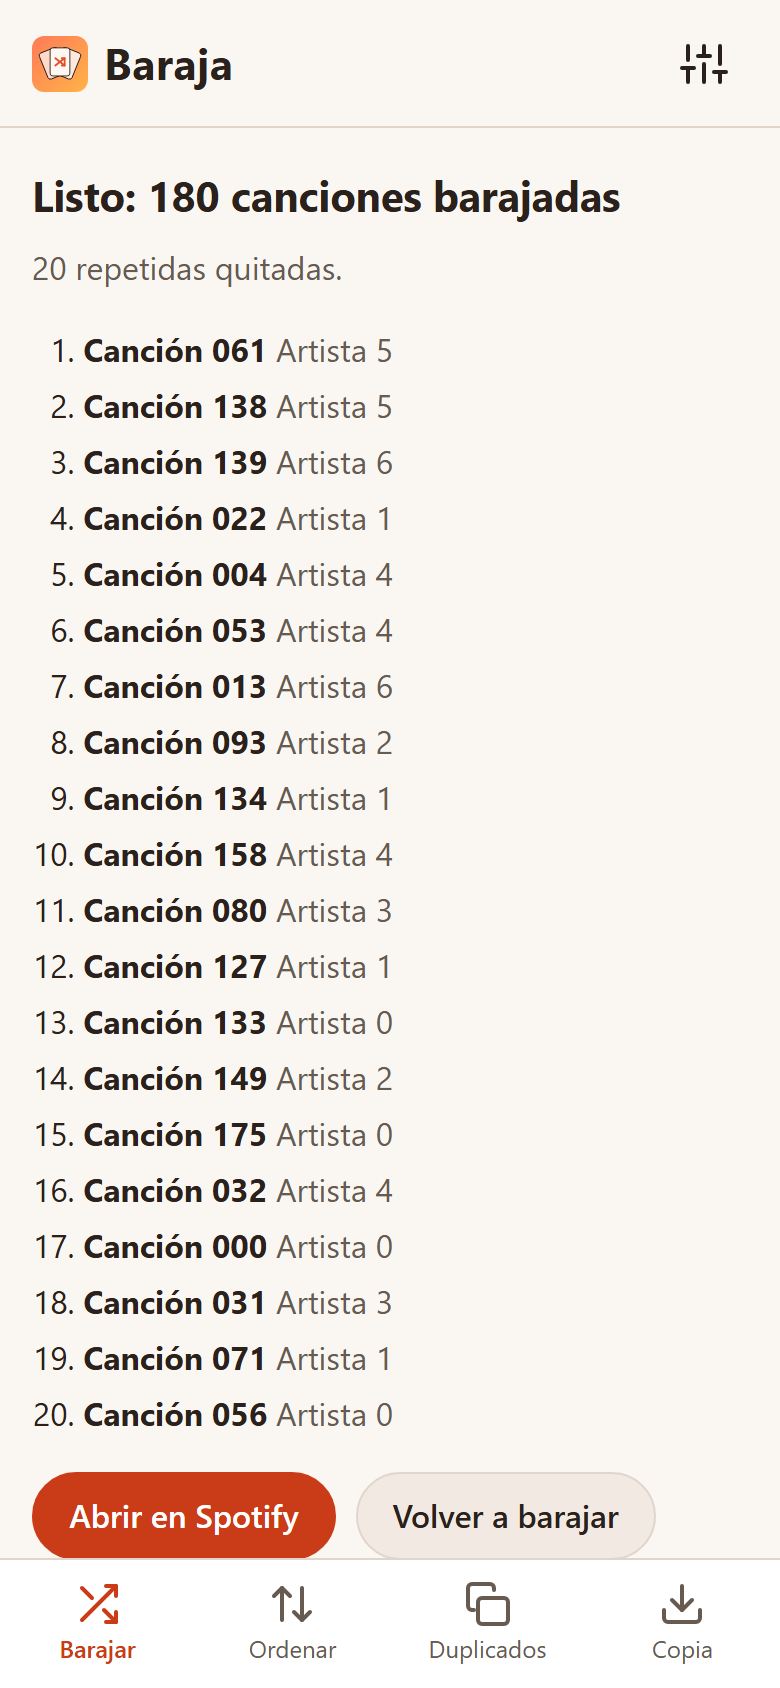
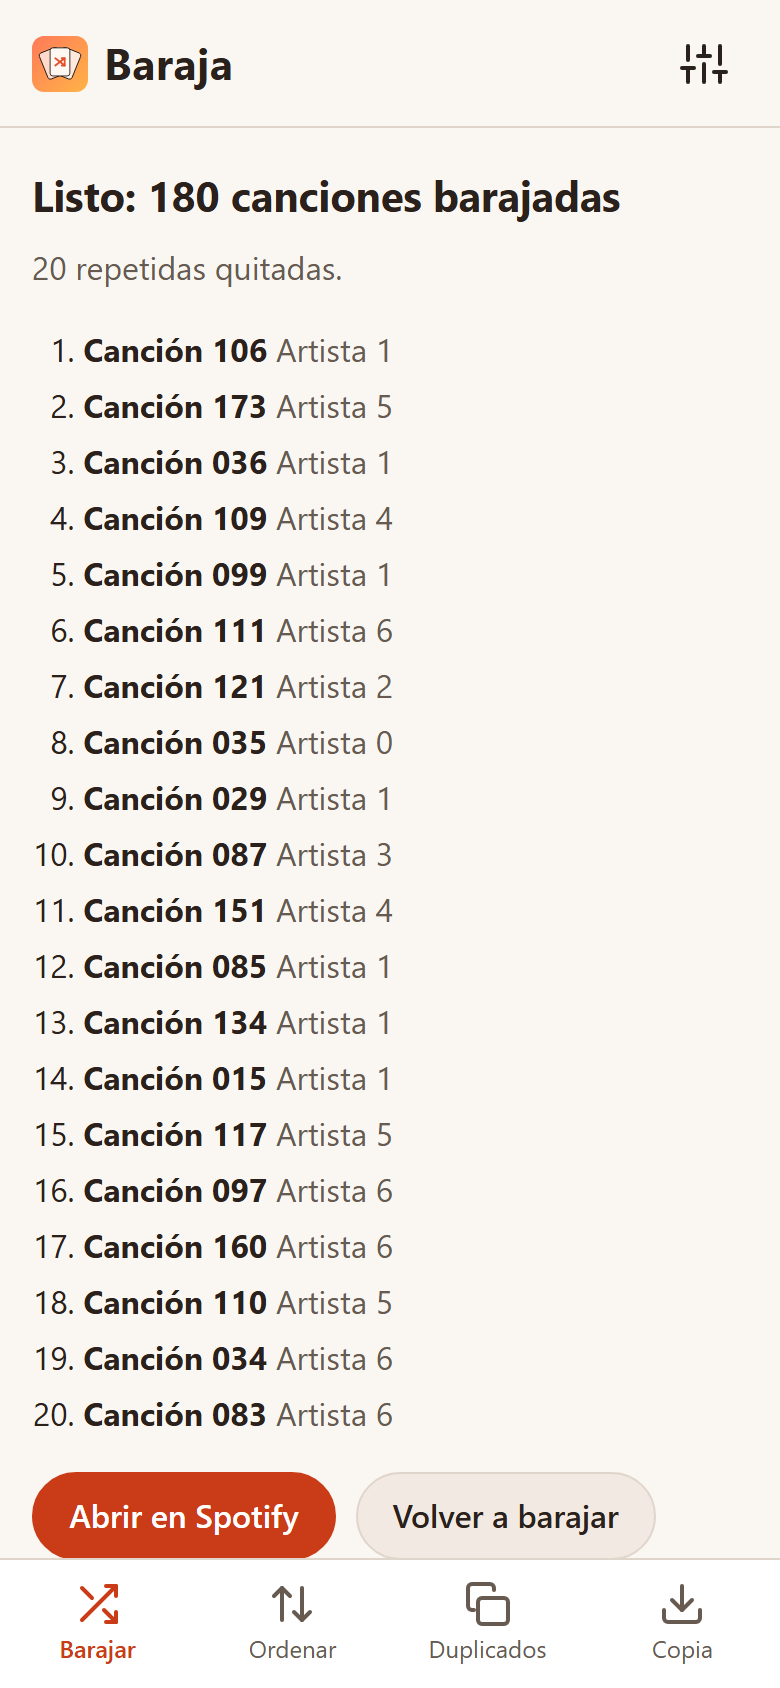
fix: no mostrar «null» en la pantalla de copia de seguridad
replaceChildren convierte null en el texto "null"; el aviso de omitidos de la
copia pasaba null cuando no había nada que avisar. Ahora todas las pantallas
de resultado usan setKids, que descarta null y false. Test e2e que recorre
barajar, ordenar, duplicados, copia y restaurar y falla si aparece null,
undefined o false. Subida la caché del service worker y bandeja al día.

Changed region(s): [[0.2769, 0.1848, 0.3385, 0.8626], [0.4923, 0.5853, 0.5231, 0.6161], [0.4923, 0.1848, 0.5231, 0.2156]]

diff --git a/js/app.js b/js/app.js
@@ -33,6 +33,9 @@ function h(tag, props = {}, ...kids) {
   return el;
 }
 
+/** replaceChildren convierte null y false en el texto "null"/"false"; aquí se descartan. */
+const setKids = (el, ...kids) => el.replaceChildren(...kids.flat().filter((k) => k != null && k !== false));
+
 function icon(...paths) {
   const svg = document.createElementNS(SVGNS, 'svg');
   svg.setAttribute('viewBox', '0 0 24 24');
@@ -279,7 +282,7 @@ function renderResult(container, status, o) {
   }) }, t('undo'));
   const sync = () => { const u = getItem(KEYS.undo); undoBtn.hidden = !(u && u.playlistId === o.playlistId); };
   sync();
-  container.replaceChildren(
+  setKids(container,
     h('h2', { class: 'result-title' }, o.title),
     ...o.notes.map((n) => h('p', { class: 'note' }, n)),
     h('ol', { class: 'preview', 'aria-label': t('preview') }, o.tracks.slice(0, 20).map((tr) => h('li', {}, h('strong', {}, tr.name), ' ', h('span', { class: 'muted' }, artistsOf(tr))))),
@@ -523,7 +526,7 @@ function dupsPanel() {
       status.clear();
       form.hidden = true;
       if (!groups.length) {
-        result.replaceChildren(h('h2', { class: 'result-title' }, t('noDups')), ...skipNotes(skipped).map((n) => h('p', { class: 'note' }, n)),
+        setKids(result,h('h2', { class: 'result-title' }, t('noDups')), ...skipNotes(skipped).map((n) => h('p', { class: 'note' }, n)),
           h('div', { class: 'actions' }, h('button', { class: 'btn', type: 'button', onclick: back }, t('back'))));
         result.hidden = false;
         return;
@@ -582,7 +585,7 @@ function dupsPanel() {
       });
     }
 
-    result.replaceChildren(
+    setKids(result,
       h('h2', { class: 'result-title' }, t('dupsFound', { n: fmt(groups.length) })),
       h('ul', { class: 'dup-list' }, items), count,
       h('div', { class: 'actions' }, removeBtn, copyBtn, h('button', { class: 'btn', type: 'button', onclick: back }, t('back'))));
@@ -643,7 +646,7 @@ function backupPanel() {
       const csvBlob = new Blob(['', toCsv(lists)], { type: 'text/csv' });
       const total = lists.reduce((n, p) => n + p.tracks.length, 0);
       status.clear();
-      out.replaceChildren(
+      setKids(out,
         h('h2', { class: 'result-title' }, t('backupReady', { n: fmt(total), p: fmt(lists.length) })),
         skippedTotal ? h('p', { class: 'note' }, t('skipped', { n: fmt(skippedTotal) })) : null,
         h('div', { class: 'actions' },
@@ -676,7 +679,7 @@ function backupPanel() {
     const go = h('button', { class: 'btn primary', type: 'button', onclick: () => restore() }, t('restoreBtn'));
     const upd = () => { go.disabled = !boxes.some((b) => b.box.checked); };
     boxes.forEach((b) => b.box.addEventListener('change', upd));
-    restoreBox.replaceChildren(
+    setKids(restoreBox,
       h('ul', { class: 'restore-list' }, boxes.map(({ p, box }) => h('li', {}, h('label', { class: 'check' }, box, h('span', {}, `${p.name} · ${t('songs', { n: fmt(p.tracks.length) })}`))))),
       go);
     restoreBox.hidden = false;
@@ -773,7 +776,7 @@ function mountApp() {
     tabBtns[key] = b;
     return b;
   }));
-  root.replaceChildren(
+  setKids(root,
     h('header', { class: 'top' }, h('h1', {}, h('img', { src: 'icons/icon.svg', alt: '', width: '28', height: '28' }), 'Baraja'), gear),
     h('main', {}, Object.values(panels)),
     nav);
@@ -797,7 +800,7 @@ function renderSetup(problem) {
   const langSel = h('select', { 'aria-label': t('language'), onchange: () => { setLang(langSel.value); renderSetup(problem); } },
     LANGS.map(([code, label]) => { const o = h('option', { value: code }, label); if (code === getLang()) o.selected = true; return o; }));
   const steps = ['step1', 'step2', 'step3', 'step4', 'step5'];
-  root.replaceChildren(h('main', { class: 'setup' },
+  setKids(root,h('main', { class: 'setup' },
     h('div', { class: 'brand' }, h('img', { src: 'icons/icon.svg', alt: '', width: '72', height: '72' }), h('h1', {}, 'Baraja')),
     h('p', { class: 'lead' }, t('welcome')),
     h('h2', {}, t('guideTitle')),
@@ -829,7 +832,7 @@ async function boot() {
   } catch (e) {
     console.error(e);
     if (e instanceof auth.AuthError) return renderSetup(e);
-    root.replaceChildren(h('main', { class: 'setup' }, h('p', { class: 'error', role: 'alert' }, errorMessage(e)),
+    setKids(root,h('main', { class: 'setup' }, h('p', { class: 'error', role: 'alert' }, errorMessage(e)),
       h('button', { class: 'btn primary', type: 'button', onclick: () => location.reload() }, t('retry'))));
   }
 }

diff --git a/sw.js b/sw.js
@@ -1,5 +1,5 @@
 // Cache-first solo para los archivos de la app. Nunca toca otros orígenes (api/accounts de Spotify).
-const CACHE = 'baraja-v3';
+const CACHE = 'baraja-v4';
 const SHELL = [
   './', 'index.html', 'manifest.webmanifest', 'css/styles.css',
   'js/app.js', 'js/api.js', 'js/auth.js', 'js/config.js', 'js/core.js', 'js/i18n.js', 'js/storage.js',

diff --git a/docs/bandeja.md b/docs/bandeja.md
@@ -2,20 +2,20 @@
 
 Formato: `## [ ] AAAA-MM-DD título`, contexto en 2 líneas, opciones, recomendación y `Respuesta:`.
 
-## [ ] 2026-11-23 Merge de feat/v1-baraja a main
+## [x] 2026-11-23 Merge de feat/v1-baraja a main
 Todo el trabajo está en la rama `feat/v1-baraja`, subida al repo privado. Tests unitarios (39) y e2e (12) en verde.
 Opciones: (a) hacer merge tú tras mirar el PR; (b) pedirme que lo haga.
 Recomendación: (a), mirando antes las capturas de `docs/capturas/`.
-Respuesta:
+Respuesta: (b). Mergeado en la PR #1 el 2026-11-24 y publicado como v1.0.0.
 
-## [ ] 2026-11-23 Probar contra Spotify real
+## [x] 2026-11-23 Probar contra Spotify real
 Los tests usan Spotify simulado: no se ha probado con la API real (no hay Client ID ni cuenta Premium disponible sin ti). Puede haber diferencias de formato (p. ej. `/items` en tu cuenta).
 Opciones: (a) seguir SIGUIENTES_PASOS.md, punto 2; (b) abrir un issue con lo que falle.
 Recomendación: (a) antes de hacer público el repo.
-Respuesta:
+Respuesta: (a). Probado con la API real: barajar, ordenar, duplicados, copia de seguridad y restaurar. Fallo visual «null» corregido.
 
-## [ ] 2026-11-23 Hacer público el repo y activar Pages
+## [x] 2026-11-23 Hacer público el repo y activar Pages
 Necesario para probar en iPhone (HTTPS). Es irreversible en la práctica (puede quedar indexado).
 Opciones: (a) hacerlo tras el checklist de SIGUIENTES_PASOS.md; (b) usar otro hosting HTTPS.
 Recomendación: (a).
-Respuesta:
+Respuesta: (a). Checklist revisado el 2026-11-24; repo público y Pages con GitHub Actions a petición del usuario.

diff --git a/DECISIONES.md b/DECISIONES.md
@@ -24,7 +24,7 @@ Trabajo hecho sin supervisión el 2026-11-23. Todo lo reversible lo decidí yo; 
 - **Cero dependencias de runtime**; única devDependency, `@playwright/test` (pedida en el enunciado).
 - **`node --test "tests/unit/*.test.js"`**: en Node 24, `node --test carpeta/` no funciona.
 - **Playlists leídas con `limit=50`** (el máximo actual de `/items`) y escrituras de 100 en 100.
-- **Service worker**: cache-first para recursos propios, network-first para la navegación, caché versionada (`baraja-v3`; hay que subirla al cambiar archivos, ver CONTRIBUTING). Nunca toca otros orígenes.
+- **Service worker**: cache-first para recursos propios, network-first para la navegación, caché versionada (`baraja-v4`; hay que subirla al cambiar archivos, ver CONTRIBUTING). Nunca toca otros orígenes.
 - **Tests e2e con el service worker bloqueado** para que no interfiera con `page.route`.
 - **Licencia MIT a nombre de "Juan del Mazo"** (nombre del perfil de GitHub).
 - **Iconos** generados con `scripts/make-icons.mjs` (Chromium de Playwright renderiza el SVG a PNG).

diff --git a/CHANGELOG.md b/CHANGELOG.md
@@ -2,6 +2,12 @@
 
 Formato basado en [Keep a Changelog](https://keepachangelog.com/es-ES/1.1.0/). El proyecto sigue [Versionado Semántico](https://semver.org/lang/es/).
 
+## [Sin publicar]
+
+### Corregido
+
+- En la pestaña Copia aparecía el texto «null» bajo «Copia lista» cuando no había elementos omitidos. Las pantallas de resultado ya no pueden mostrar «null» ni «false».
+
 ## [1.0.0] - 2026-11-23
 
 ### Añadido
